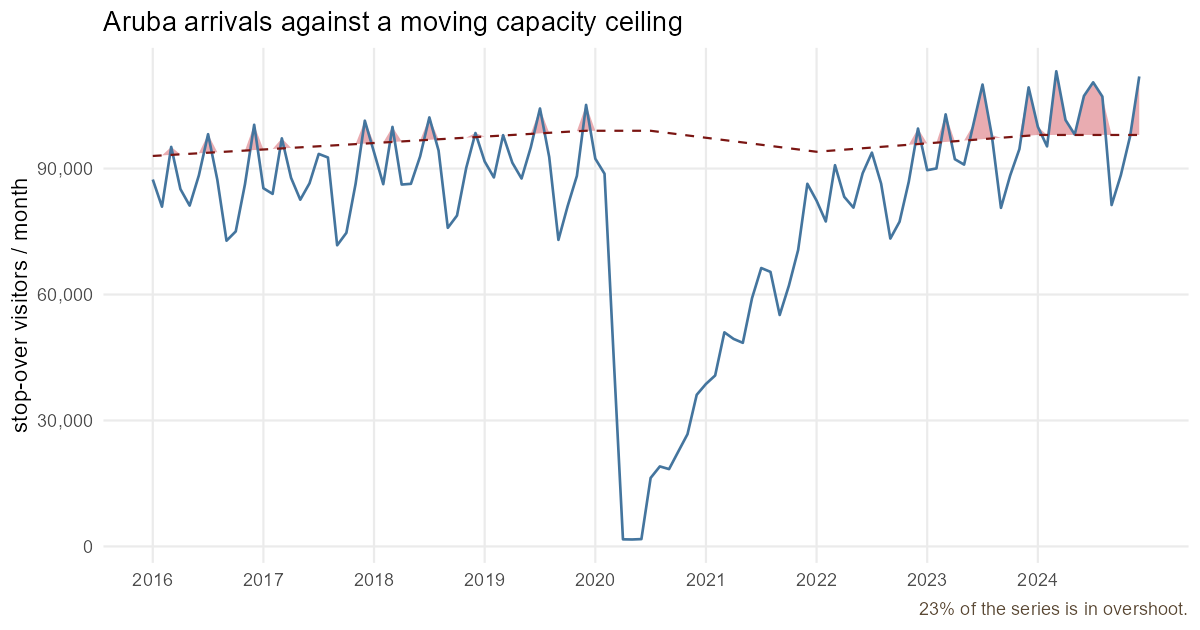
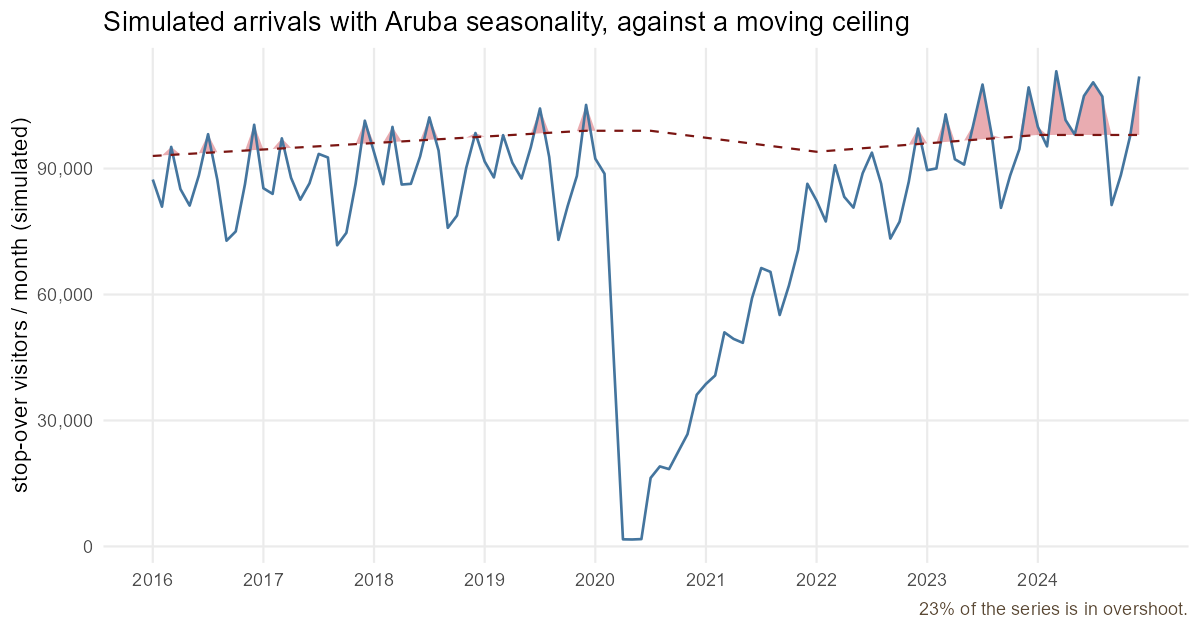
Prep CRAN resubmission and record the flagship series provenance
Drop the keyword list from the DESCRIPTION Description field; CRAN reads it
as keyword stuffing and it added nothing the primitives sentence did not
already say.

Update cran-comments.md to a real check rather than a planned one: 0 errors,
0 warnings, 1 note on R 4.6.1 with ggplot2 4.0.3, local plus win-builder
release. The future-file-timestamps note is gone, so "New submission" is the
only one left.

verify-render.R now states plainly that only the seasonal shape is real. The
12-month index comes from tourism-monthly-visitors; the level, the 2020-21
collapse, the recovery and the capacity ceiling are all constructed in the
script. Calling that an Aruba arrivals series would be false, and no such
series covering 2016-2024 exists in aruba-data yet.

Paths move off the old laptop's profile and onto GGB_HUB and GGB_PKG with
Framework defaults, so the script runs on either machine.

Changed region(s): [[0.0925, 0.0, 0.7708, 0.0603], [0.0, 0.181, 0.0308, 0.7841]]

diff --git a/cran-comments.md b/cran-comments.md
@@ -1,18 +1,18 @@
 ## R CMD check results
 
-0 errors | 0 warnings | 2 notes
+0 errors | 0 warnings | 1 note
 
-* This is a new release (the "New submission" note is expected).
-* "checking for future file timestamps ... unable to verify current time" is an
-  environmental note (no network access to the time server during the check),
-  not a package issue.
+* This is a new release, so the "New submission" note is expected. It is the
+  only note; nothing else was flagged.
 
 ## Test environments
 
-* local Windows 11, R 4.2.2
-* (to add before submission: win-builder devel + release, macOS builder,
-  R-hub Ubuntu/Fedora)
+* local Windows 11, R 4.6.1 (2026-06-24 ucrt), ggplot2 4.0.3
+* win-builder, R-release 4.6.1 (2026-06-24 ucrt)
+* (to add before submission: win-builder R-devel)
 
 ## Notes
 
 * New submission.
+* The package is pure R with no compiled code. Tests, examples, and both
+  vignettes run and rebuild during the check.
